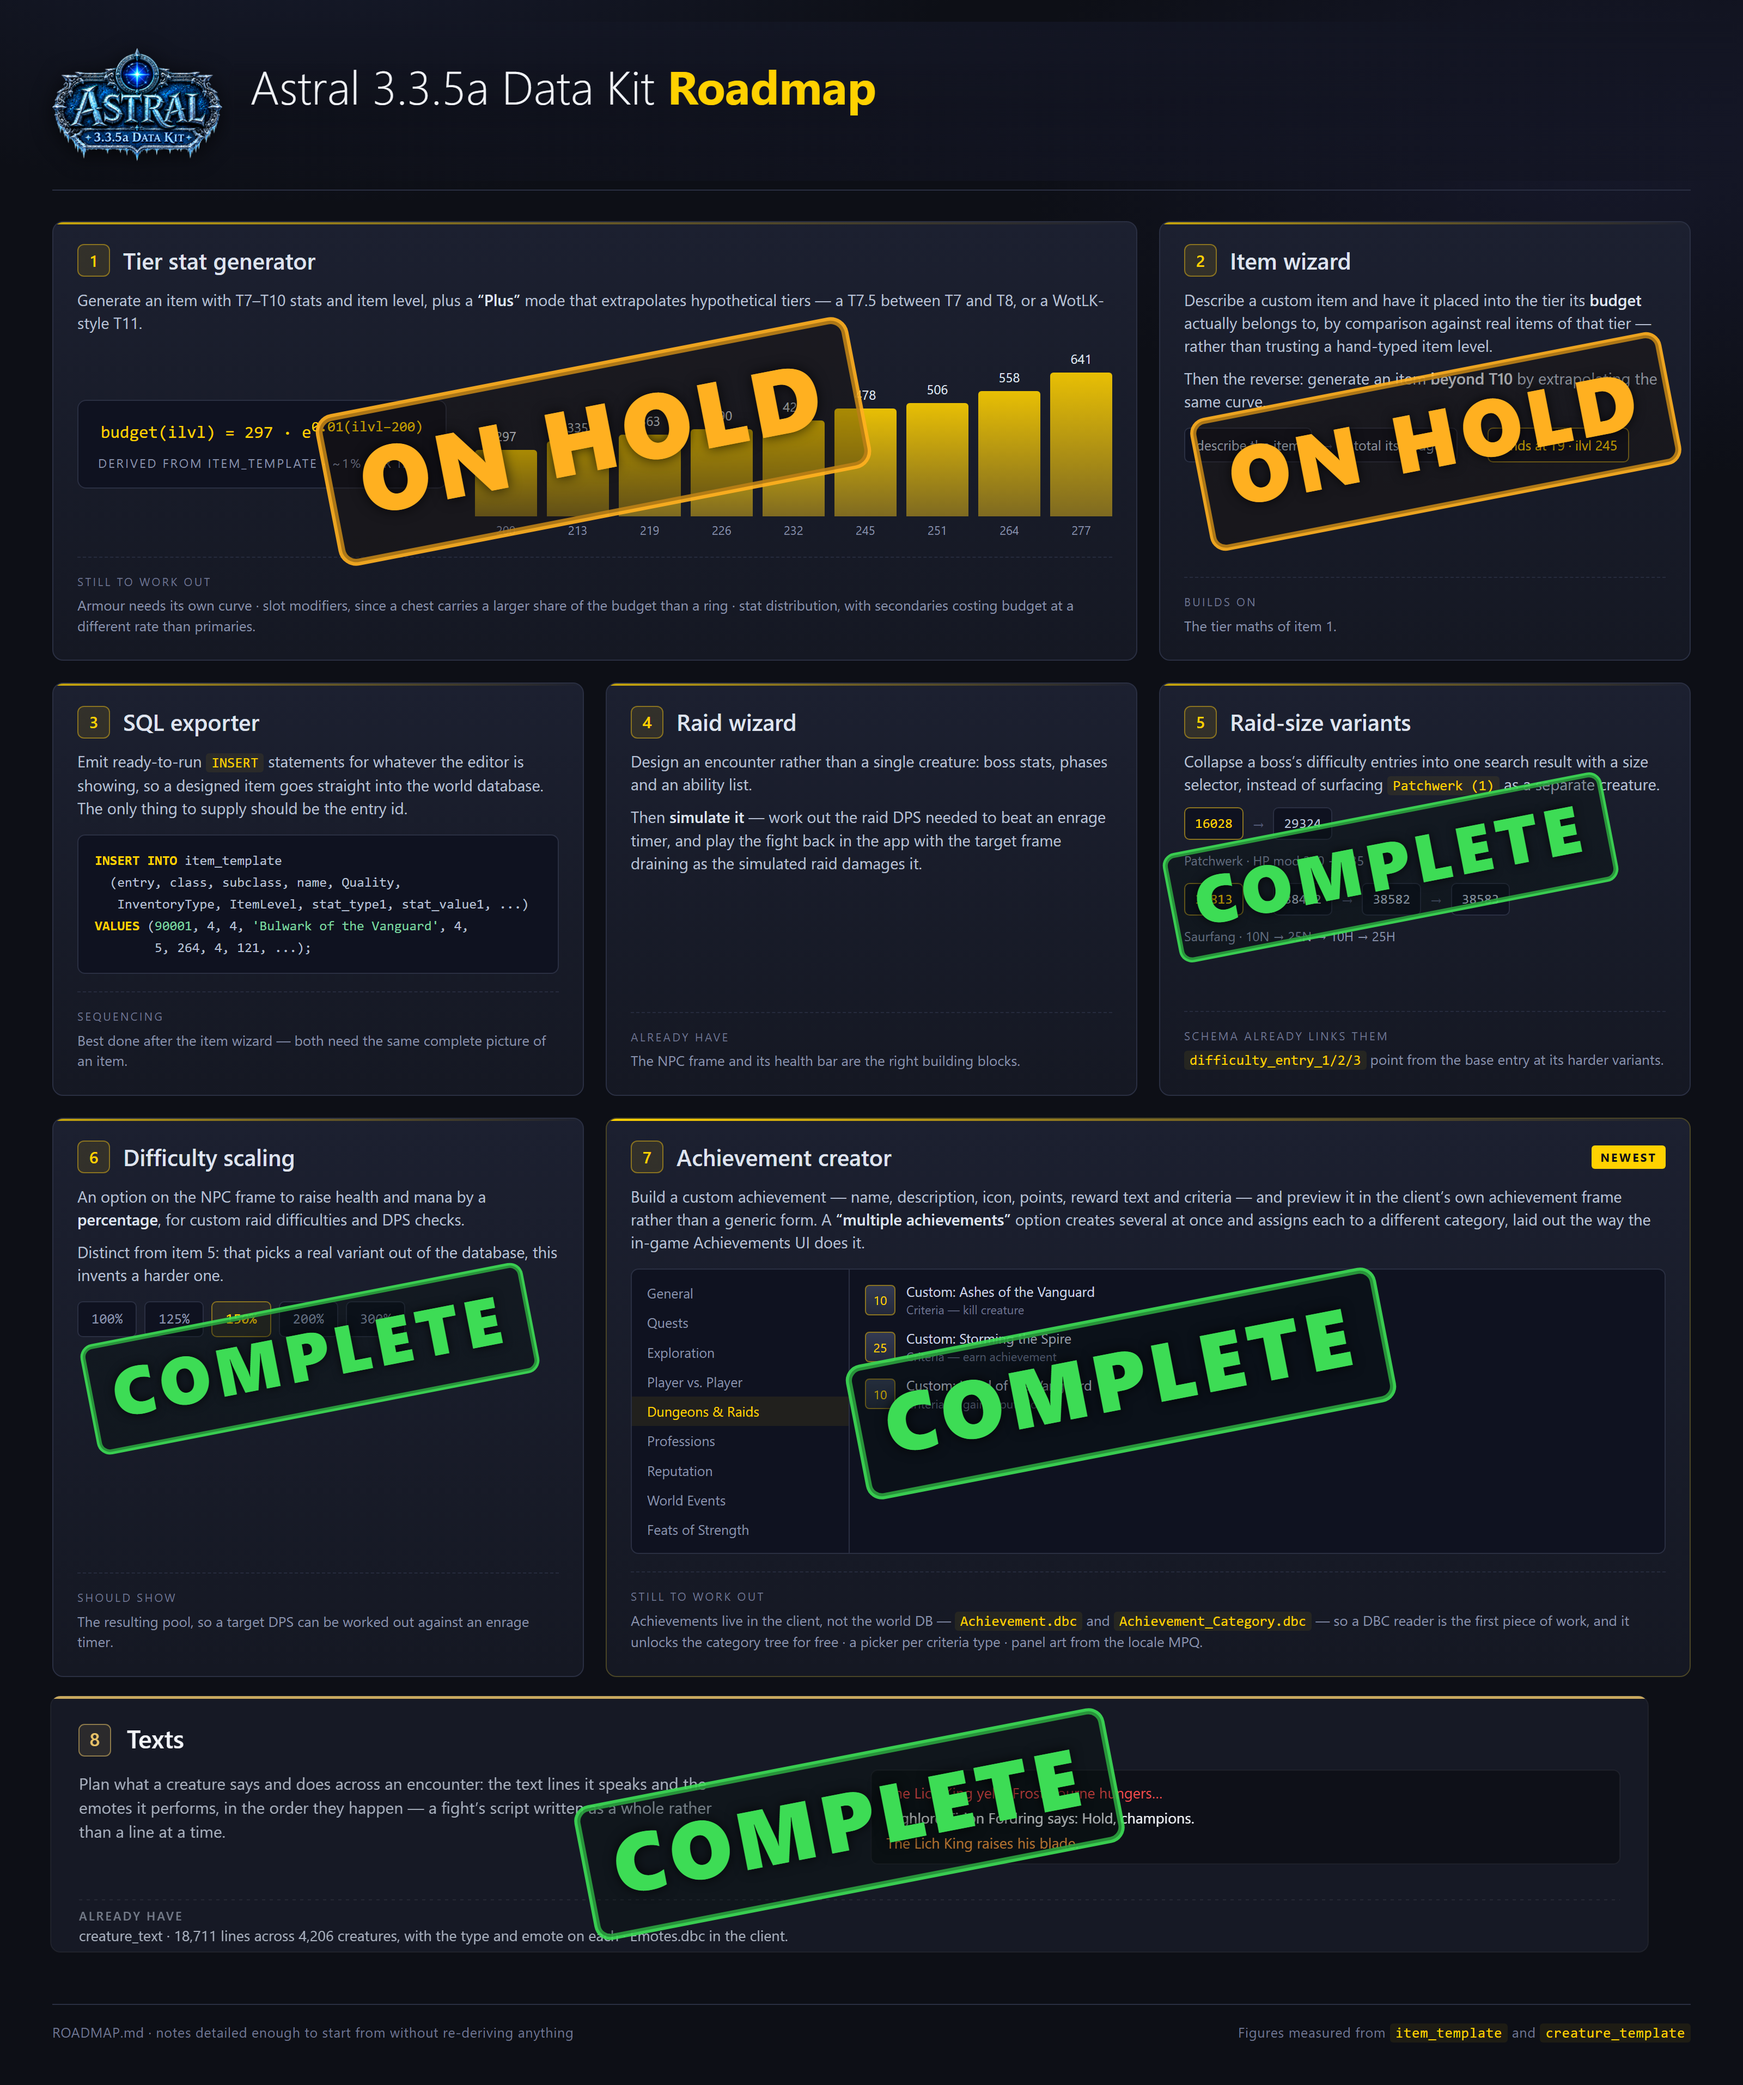
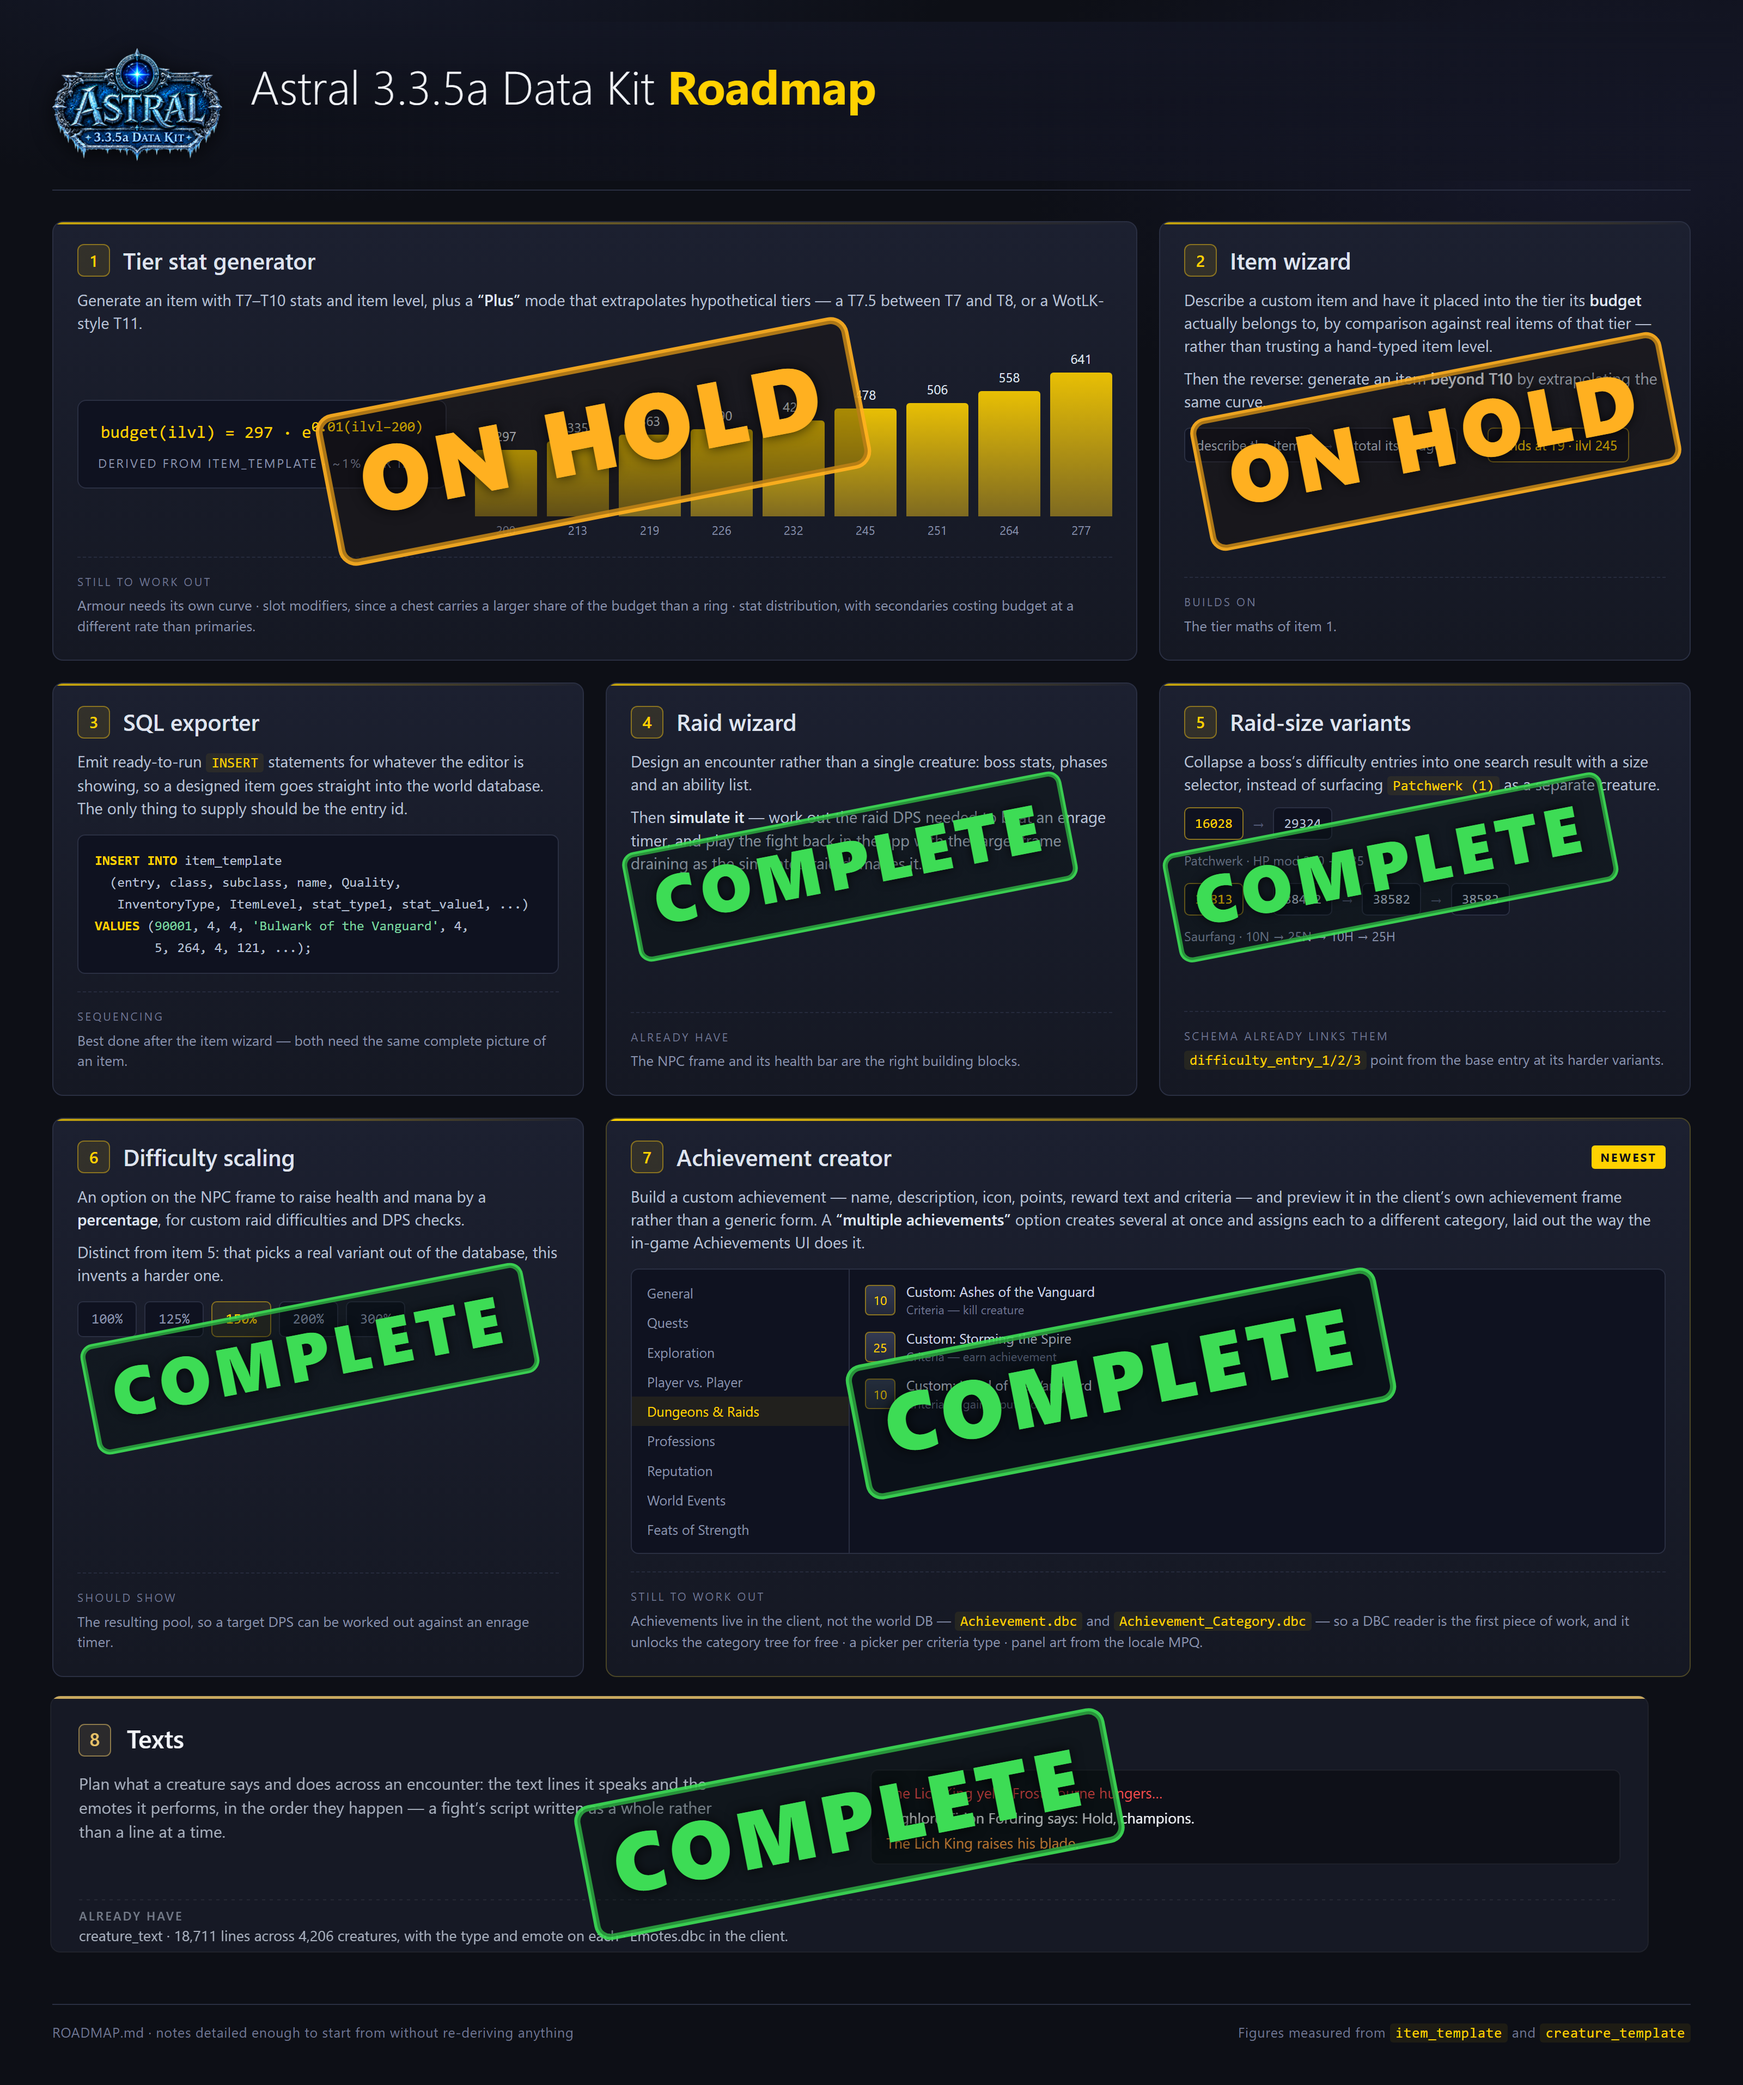
Roadmap: the raid wizard is built
Card 4 is stamped COMPLETE in the picture, and the card in ROADMAP.md keeps its working-out with an
account of what the built thing does instead: work is taken from a window rather than pasted from a
clipboard, a raid is a folder of JSON with no index beside it, a fight is built per difficulty, and
it ends in a sheet. What was dropped is named too - the simulation, raid import and export, and
proposing a fight out of smart_scripts.

Changed region(s): [[0.3438, 0.373, 0.625, 0.4663]]

diff --git a/tools/stamp-roadmap.js b/tools/stamp-roadmap.js
@@ -34,9 +34,12 @@ const APP_OUT = path.join(ROOT, 'public', 'roadmap.png');
 /*
  * Card boxes in the image's own 3200-pixel width, measured off the render.
  *
+ * 4 — Raid wizard: raids as documents, bosses with difficulties, phases and abilities, and the
+ *     sheet they draw as. Shipped in 1.5.
  * 7 — Achievement creator: the Achievement window, its finder and the card renderer.
  */
 const DONE = [
+    { label: '4', x0: 1087, y0: 1222, x1: 2034, y1: 1960 },
     { label: '7', x0: 1090, y0: 2001, x1: 3026, y1: 3079 }
 ];
 

diff --git a/ROADMAP.md b/ROADMAP.md
@@ -215,7 +215,13 @@ straight into the world database. The only thing to supply should be the entry i
 Best done after the item wizard: both need the same complete picture of an item, and the exporter
 is the natural way to get a generated one out of the tool.
 
-## 4. Raid wizard — assemble a raid out of what the other windows make
+## 4. Raid wizard — COMPLETE
+
+*Shipped in 1.5 as the Raid Wizard. `lib/raids.js` keeps a raid as one JSON file per raid in
+`~/.astral-data-kit/raids/`; `public/editor/raids.js` is the list and the roster,
+`public/editor/raid-boss.js` is one fight opened, and `public/editor/raid-sheet.js` draws it. The
+working-out below is kept because what it settled still holds — and what it turned out differently
+on is written up at the end of the card.*
 
 Every other window in the program builds one finished thing and then has nowhere to put it. The
 raid wizard is where they go: **create a raid, then fill it by copying finished work in from the
@@ -324,6 +330,45 @@ exactly the bosses anyone cares about.
 Note that `creature_template` in this schema has no `spell1..8` columns; a creature's abilities
 live in `smart_scripts`, which is also where phases and summons are, so one reader covers the
 abilities, the phases and the adds.
+
+### What it turned out to be
+
+Where the built thing differs from the plan above, it is the plan that was wrong:
+
+- **Taking, not pasting.** There is no clipboard. A button on the raid says what it will take and
+  from where — "Add Glorenzelg, High-Blade of the Silver Hand from the Item window" — and takes it.
+  That is the same mechanism with a step removed: `FIELDS_BY_KIND` still says what travels, so a
+  boss still cannot drag the item in the next tab along with it. A copy that has to be parked
+  somewhere first is only worth its complication when the two ends are far apart, and here they are
+  two clicks from each other.
+- **A snapshot, as decided.** What lands is a copy. Editing the item afterwards leaves the drop
+  already in the raid alone, and a raid keeps reading when the thing it came from is gone.
+- **The portrait travels as a PNG**, which is the answer this card picked: `portraitDataUrl()` in
+  `state.js` puts the captured canvas on the frame, so a boss carries its face without needing the
+  model viewer or a connection to open.
+- **The folder is the index.** No `raids.json`: a directory listing is the list, and a folder cannot
+  disagree with itself the way an index and its contents can.
+- **A fight is built per difficulty**, at 10 and 25 Normal and Heroic, added rather than assumed —
+  most fights are not written at all four sizes and a row of empty tabs invites filling them in for
+  the sake of it. Phases are a list on the difficulty, each a name and a trigger, reordered with
+  arrows; a creature's spells are filed under one, and an ability that runs in two phases is copied
+  into the second from the row it already sits on.
+- **It ends in a picture, not a form.** A fight draws as one sheet — creatures as target frames,
+  abilities as a tactics table under their phase headings, then loot, achievements and the quotes,
+  each set under the moment it belongs to — or as one PNG per phase when the fight is too big to
+  read in one picture.
+- **An enrage timer is recorded rather than simulated**: ticked on the fight, drawn at the top of
+  the ability table above the first phase.
+
+**Not built, and not holding the card open**
+
+- **The simulation.** Playing a fight back with the health bar draining against a raid's DPS is a
+  different program to a design document, and nothing else in the wizard was waiting on it.
+- **Export and import a raid as one `.json`.** The files are already plain JSON in a folder anyone
+  can open, so this is a nicety rather than the only way to move one.
+- **"Propose from a real boss."** The dungeon browser already brings a boss in with its real pool,
+  and `creature_loot_template` with its references is read for loot; proposing a whole fight from
+  `smart_scripts` is its own card if it is ever wanted.
 
 ## 5. Raid-size variants of WotLK NPCs — **built**
 
